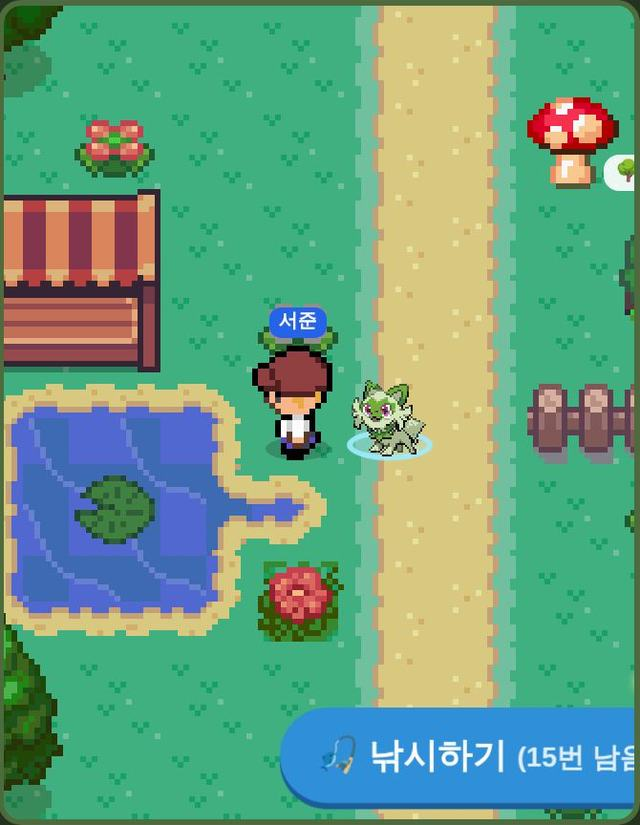
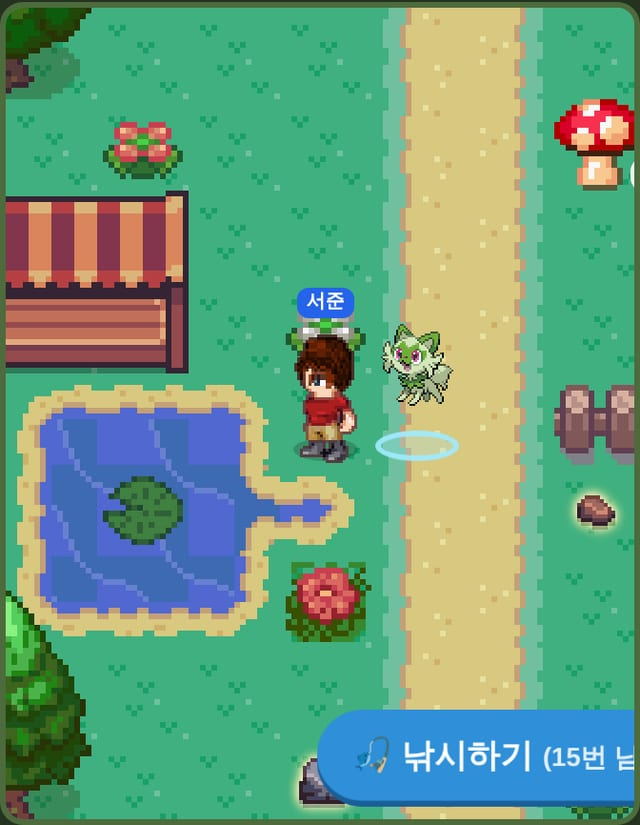
훈련 상자 결과 줄 간단히, 시험 버튼 '지난주 몰아서 적기', 설명서 사람 나오는 그림 4장 새 캐릭터로, 손님 말풍선이 서준 밑에 가려지던 것 고침
Claude-Session: https://claude.ai/code/session_013Gbm6Fa4FvQvNF7GgGTRnx

diff --git a/app/village-demo/village-demo.tsx b/app/village-demo/village-demo.tsx
@@ -15,6 +15,11 @@ const shiftDay = (date: string, days: number) => {
   return d.toISOString().slice(0, 10);
 };
 
+/** 주소에 ?rod=1 이면 낚싯대도 처음부터 (설명서 그림 찍기용, 보통은 만들어 보기) */
+function demoRod(): boolean {
+  try { return new URLSearchParams(window.location.search).get('rod') === '1'; } catch { return false; }
+}
+
 /** 시험용 마을 별 (주소 ?stars=숫자, 없으면 33: 들어가면 손님 별을 받아 레벨 2 바로 앞) */
 function demoStars(): number {
   try { const n = Number(new URLSearchParams(window.location.search).get('stars')); return Number.isFinite(n) && n > 0 ? n : 33; } catch { return 33; }
@@ -54,7 +59,7 @@ function demoState(today: string): GameState {
     mail: [{ id: 'k1', kind: 'iron', amount: 1, week: yesterday, at: now }],
     craftedBalls: [{ id: 'c1', kind: 'poke', made: yesterday }],
     // 낚시·벌레잡기: 잠자리채는 있고(15번), 낚싯대는 만들어 보기
-    tools: { net: 15 },
+    tools: demoRod() ? { rod: 15, net: 15 } : { net: 15 },
     // 마을 레벨: 별 33개 + 들어갈 때 손님 별 = 레벨 2 바로 앞 (조금만 더 만들면 오른쪽 풀밭이 열림). 주소 끝에 ?stars=1200 처럼 붙이면 그만큼으로
     stars: demoStars(),
   } as unknown as GameState['village'];

diff --git a/lib/game-engine.ts b/lib/game-engine.ts
@@ -3304,6 +3304,15 @@ export function simOffline(state: GameState, op: string, ctx: LegendCtx): string
   const off = offlineOf(state);
   const lastStart = plusDays(weekStartOf(ctx.today), -7);
   switch (op) {
+    case 'weekBatch': {
+      // 부모님이 주 1회 몰아서 적은 것처럼 (2026-11-20): 지난주 ●●■●■●▲를 적고 하루 상자도 정하기 전으로 → 다음에 열면 상자 여러 개 + 주간 기록
+      const plan: DayMark[] = ['full', 'full', 'some', 'full', 'some', 'full', 'none'];
+      weekDates(lastStart).forEach((d, i) => { off.marks[d] = plan[i]; delete off.given[d]; });
+      off.boxes = off.boxes.filter(b => !weekDates(lastStart).includes(b.date));
+      off.weeks[lastStart] = { goal: rules.weekGoal, cheer: off.weeks[lastStart]?.cheer };
+      syncOffline(state, ctx);
+      return `지난주를 몰아서 적었어요(합계 ${weekScore(off.marks, lastStart)}). 하루 상자 ${off.boxes.filter(b => weekDates(lastStart).includes(b.date)).length}개가 생겼어요.`;
+    }
     case 'weekGood':
     case 'weekShort': {
       // 지난주를 채우고 정산 전으로 되돌림 → 다음에 아이 화면을 열면 주간 기록 팝업

diff --git a/app/globals.css b/app/globals.css
@@ -1411,3 +1411,9 @@ button.day-box-tile:active { transform: scale(.95); }
 @keyframes week-box-pop { 0% { transform: translateY(-14px) scale(.2); opacity: 0; } 60% { transform: translateY(4px) scale(1.15); opacity: 1; } 100% { transform: none; } }
 .week-box-note { margin: 0; font-weight: 800; color: #b45309; }
 .study-day-box { position: absolute; right: 1px; top: 0; font-size: 11px; }
+.day-box-result-items .reward-card { flex-direction: row; justify-content: flex-start; align-items: center; gap: 8px; min-height: 0; padding: 6px 10px; text-align: left; }
+.day-box-result-items .reward-card img { width: 36px; height: 36px; flex: none; }
+.day-box-result-items .reward-card b { font-size: 15px; }
+.day-box-result-items .reward-card small { display: none; }
+.day-box-result { grid-template-columns: 64px 1fr; padding: 4px 6px; }
+.day-boxes-dialog .intro-title { font-size: 22px; }

diff --git a/components/parent/offline-parent.tsx b/components/parent/offline-parent.tsx
@@ -215,6 +215,7 @@ export function OfflineSimTools({ busy, call, reload }: { busy: boolean; call: C
       <div className="button-row">
         <button className="secondary small" disabled={busy} onClick={() => void run('weekGood')}>지난주 채우기: 조각 받는 주(●●■●■●▲ = 5)</button>
         <button className="secondary small" disabled={busy} onClick={() => void run('weekShort')}>지난주 채우기: 아쉬운 주(3½)</button>
+        <button className="secondary small" disabled={busy} onClick={() => void run('weekBatch')}>지난주 몰아서 적기(하루 상자 6개 생김)</button>
         <button className="secondary small" onClick={() => clearDevice('week')}>이 기기 주간 기록 다시 보기</button>
         <button className="secondary small" onClick={() => clearDevice('intro')}>이 기기 처음 안내 다시 보기</button>
       </div>

diff --git a/components/game/day-boxes.tsx b/components/game/day-boxes.tsx
@@ -93,7 +93,7 @@ export function DayBoxesDialog({ open, boxes, title, busy, act, onOpenOne, onLat
       <DialogContent className="reward-dialog day-boxes-dialog">
         {phase === 'list' ? <>
           <DialogTitle className="intro-title">{title ?? '🎁 훈련 선물 상자가 왔어!'}</DialogTitle>
-          <DialogDescription className="intro-text">부모님이 적어 주신 훈련 날마다 상자가 하나씩 있어. 상자를 눌러 하나씩 열거나, 한 번에 열어 봐!</DialogDescription>
+          <DialogDescription className="intro-text">훈련한 날마다 상자가 하나씩! 눌러서 하나씩 열거나, 한 번에 열어 봐.</DialogDescription>
           <div className="day-box-grid">
             {sorted.map((b, i) => <DayBoxTile key={b.id} box={b} delay={i * 0.12} disabled={busy} onClick={() => onOpenOne(b)} />)}
           </div>

diff --git a/components/game/village.tsx b/components/game/village.tsx
@@ -452,7 +452,7 @@ function VillageInner({ view, busy, act, onClose, onSeconds, onOpenBall, lpcTest
           {/* 돌아다니는 포켓몬 */}
           {walkers.map(w => (
             <button key={w.id} className={'village-mon' + (w.guest ? ' guest' : '') + (placing || decorPlacing ? ' pass' : '')}
-              style={{ left: w.x * TILE, top: w.y * TILE, width: TILE, height: TILE, zIndex: 11 + w.y }}
+              style={{ left: w.x * TILE, top: w.y * TILE, width: TILE, height: TILE, zIndex: bubble?.id === w.id ? 200 : 11 + w.y }}
               onClick={() => void onMonTap(w)}
               aria-label={species(w.species).name}>
               <span className="village-shadow" />

diff --git a/CLAUDE.md b/CLAUDE.md
@@ -88,7 +88,7 @@
   - 전설: `settleLegend` 조각 ≥ need면 남은 후보(가진 포켓몬 제외) 최대 3개 마스터볼(`pending`, 이로치 = 마스터볼 확률·스위치) → 아이 `legendPick`(고른 것만 보여 줌: 2026-10-15 부모님 요청으로 고르지 않은 볼 내용은 응답에도 안 보냄, `others` = 수만) → 단계 후보를 다 만나면 다음 단계("다음 단계 전설은 더 귀해서 조각이 더 필요해"). 후보가 없는 단계는 조각만 모으며 기다림(아이 "부모님이 다음 전설을 준비하고 있어", 보호자 경고). **조각은 주간 집 공부·이벤트로만, 배틀에서는 절대 없음.**
   - 나들이 보고서: 2026-10-15부터 새로 여는 보고서는 `Outing.pieces`(보호자가 열 때 1~5, 기본 `eventPieces` 2) → 승인 후 아이 `outingPick`이 조각을 넣음(`OutingPieceReward`). `pieces`가 없는 예전 보고서는 마스터볼 그대로.
   - 아이(`components/game/offline.tsx`·`legend.tsx`): 첫 화면 탭 위 `StudyStrip`(📅 집 공부 달력 · 💎 전설 지도 n/3), `StudyCalendarDialog`(보기만, `MonthCalendar` 월~일+주 칸, 이번 달 ● 수·조각), `LegendMap`(2026-10-15 부모님 요청: **지금 단계만** 크게 — 보석·파트너·조각 수·후보는 "?" 동그라미로 수만(같은 날 부모님 요청: 실루엣도 보여 주지 않음, 아이 화면 응답에도 후보 번호를 보내지 않음 `left` = 남은 수), 얻은 것만 그림, 완성한 단계는 위에 보석 그림만, 다음 단계는 안 보여 줌; 처음 안내 마지막 장도 1단계 보석과 "?" 동그라미만), `LegendPickDialog`(보석 빛남 → 마스터볼 → 고르기(나머지는 숨김) → 단계 오르면 새 빈 보석). 팝업 순서: 처음 안내 5장 `OfflineIntro`(기기마다 한 번 `pq-offline-intro-v1`) → 지난주 기록 `WeekRecordDialog`(그 주 안 첫 접속, 기기마다 한 번 `pq-week-seen-<월요일>`; 월~일이 하나씩 튀어나오며 합계·막대 → 조각이 날아와 보석에 / 모자라면 `shortMessage` → 응원 → "이번 주도 해 보자") → 마스터볼 고르기 → 하루 선물 상자 묻기(나중에 = 달력에서 열기).
-  - **하루 선물 상자 보여 주기(2026-11-20 부모님 요청, 지급 규칙·기록은 그대로):** 부모님이 주 1회 몰아서 적으면 앞선 날마다 상자가 한꺼번에 생김 → `components/game/day-boxes.tsx` `DayBoxesDialog`가 상자마다 요일·표시("월 ●", `dayBoxLabel`)와 날짜를 붙여 한 창에(날짜 순), 상자를 누르면 그 상자만 3개 중 고르기(`RewardPicker` 제목 위 `heading` "11월 17일 월요일 ● 훈련"), **한 번에 열기**는 상자마다 가려진 카드 하나를 고르는 `offlineBox` 동작을 차례로 보내고(아이가 아무 카드나 누르는 것과 같음) 결과를 요일별로, 볼이 나오면 "볼 열어 보기". 앱을 열 때 묻는 창("나중에" = 훈련 달력에서)·훈련 달력 "🎁 훈련 선물 상자 보기"(안 연 상자가 있는 날 칸에 🎁, `MonthCalendar boxDates`)가 같은 창. 월요일 `WeekRecordDialog`: 7칸이 다 나온 뒤 그 주 ●·■ 칸에서 안 연 상자가 하나씩 튀어나오고(`week-day-box`), 결과에 "🎁 훈련한 날마다 상자가 나왔어! (n개)", 버튼 "🎁 상자 열러 가기" → 상자 창.
+  - **하루 선물 상자 보여 주기(2026-11-20 부모님 요청, 지급 규칙·기록은 그대로):** 부모님이 주 1회 몰아서 적으면 앞선 날마다 상자가 한꺼번에 생김 → `components/game/day-boxes.tsx` `DayBoxesDialog`가 상자마다 요일·표시("월 ●", `dayBoxLabel`)와 날짜를 붙여 한 창에(날짜 순), 상자를 누르면 그 상자만 3개 중 고르기(`RewardPicker` 제목 위 `heading` "11월 17일 월요일 ● 훈련"), **한 번에 열기**는 상자마다 가려진 카드 하나를 고르는 `offlineBox` 동작을 차례로 보내고(아이가 아무 카드나 누르는 것과 같음) 결과를 요일별로, 볼이 나오면 "볼 열어 보기". 앱을 열 때 묻는 창("나중에" = 훈련 달력에서)·훈련 달력 "🎁 훈련 선물 상자 보기"(안 연 상자가 있는 날 칸에 🎁, `MonthCalendar boxDates`)가 같은 창. 시뮬레이션(개발 탭 훈련 시험) "지난주 몰아서 적기(하루 상자 6개 생김)" `simOffline weekBatch`(●●■●■●▲, 하루 상자를 정하기 전으로 → 상자 6개 + 주간 기록; 다른 "지난주 채우기"는 하루 상자를 안 만듦). 월요일 `WeekRecordDialog`: 7칸이 다 나온 뒤 그 주 ●·■ 칸에서 안 연 상자가 하나씩 튀어나오고(`week-day-box`), 결과에 "🎁 훈련한 날마다 상자가 나왔어! (n개)", 버튼 "🎁 상자 열러 가기" → 상자 창.
   - 활동 기록 종류 `offline`(부모님 기록·응원)·`legend`(조각·단계·마스터볼), 상자는 `reward`(집 공부 하루 선물 상자). 내보내기 `보상.집공부와전설조각`.
   - 시뮬레이션(개발 탭 "📅 집 공부 · 💎 전설 시험" `simOffline`): 지난주 채우기(조각 받는 주 5 / 아쉬운 주 3½), 이 기기 주간 기록·처음 안내 다시 보기, 조각 +1·보석 1개 전·보석 완성, 이 단계 1마리만 남기기, 4단계로, 시험 기록 지우기. 하루 상자는 달력에 적고 "다음 날로".
   - 포켓로그 원본 스타터 비용: 프리져 5, 썬더·파이어·라이코·앤테이·스이쿤 6(팀 포인트 15).
@@ -113,7 +113,7 @@
   - **제작대는 볼만·글자·그림 크기(2026-11-14 부모님):** 마을 아래 버튼 **[🔮 제작대] [🔨 만들기] [📖 방명록] [🎒 가방]**. 🔮 제작대(`WorkbenchSheet`, 지도 위 제작대 건물을 눌러도 같은 창)는 **볼만** 만듦(묘목 줄 없음), 🌳 열매나무 묘목은 🔨 만들기 → 🌱 서식지 칸 `SaplingRecipe`(레시피·개수 그대로 열매 5(섞어서 자동)+돌멩이 2, 나무 최대면 이유, 만들면 "🎒 가방에서 심어 보자"). 마을 화면·마을 창·마을이 열린 동안의 팝업은 `word-break: keep-all`. 마을 포켓몬 그림은 `AnimMon` 1.5배 → 1배(2/3), 돌아다니는 포켓몬은 서준이·파트너·서로가 있는 칸에 가지 않고 겹치면 바로 비킴(0.9초마다). 앱 화면의 "수련"은 이미 모두 "훈련"(확인함).
   - **제작대 글자·마을 반말(2026-11-14 부모님):** 레시피 열매 합계는 🍎 대신 글자 "열매 183/10"(`.cost-word`, 🍎가 사과로 보여서), 묘목이 나무 최대로 막히면 버튼 옆에 크게 "🌳 나무 자리가 꽉 찼어 (나무 2 + 가방 1)"(`.recipe-why`), 제작대 열매 이름·레시피 설명 글씨 한두 단계 크게(`.workbench-berries`·`.workbench-recipes`). **마을 안 아이용 문구는 모두 반말**("나와요" → "나와"): 마을 화면·창, `lib/village*.ts` 안내·막힘 말, 엔진 마을 동작(`villageEnter`~`openCraftedBall`)·`villageAccess`의 막힘 말(보호자용 시험 문구는 그대로 존댓말). 제작 볼 문구는 "아직 도감에 없는 포켓몬이 나와! 마을에서 만난 포켓몬이 먼저 나와".
   - **📘 마을 설명서(2026-11-14, `docs/manual-prompt.md` 기준):** 아이용 `public/guide/village.html`(정적 HTML, 첫 장 = 그림 버튼 목차 7묶음 [🚶 걷기·줍기 | 🔨 만들기 | 🔮 볼 만들기 | 📖 방명록 | 🎣 낚시·벌레 | 🏠 마을점수·열쇠 | 🍎 먹이기] 묶음마다 3~4장, 묶음 끝에 "📘 목차로"·"다음 묶음", 목차의 "처음부터 끝까지 보기", 주소 `#걷기` `#만들기` `#볼만들기` `#방명록` `#낚시` `#마을점수` `#먹이기`로 바로 그 묶음; 마을 창 아래 "📘 설명서 보기"(`village.tsx`: 제작대 → 볼만들기, 방명록 → 방명록, 만들기·가방·심기 → 만들기, 만들기 도구 칸 → 낚시), 옆으로 밀기, 큰 글씨 반말, `word-break: keep-all`, 그림 `public/guide/img/*.jpg` = `/village-demo`와 첫 화면을 390×844로 찍어 540px로 줄인 것). 마을 위쪽 ❓ 옆 **📘 설명서** 버튼(`VillageLevelBar` `onGuide`) → `village.tsx`가 `createPortal`로 전체 화면 iframe(`.village-guide-frame`), 설명서 "닫기"가 `postMessage {type:'pq-guide-close'}`(따로 열었으면 `/`로). 부모용 표 `docs/village-guide-parent.md`(숫자는 처음 값, 바꾸는 곳). 규칙·숫자가 바뀌면 둘 다 고치고 그림을 다시 찍음. 기록은 건드리지 않음.
-  - **사람 그림 LPC (2026-11-20 부모님 결정: 진짜 마을 서준도 LPC):** `lib/village-lpc.ts` `LPC_REAL`(시험에서 고른 모습: 빨간 티셔츠·모자 없음·아이 얼굴·부드러운 테두리·1.5배) — `VillageScreen`에 `lpcTest`가 없으면 이것(가족은 아직 시험용 마을에서만). 시험용 마을 `?real=1` = 진짜 마을과 같은 모습(시험 버튼·띠 없음, 설명서 그림 찍기용). 출처: 마을 아래 줄에 "사람 그림: LPC 기여자들 (CC BY-SA 3.0 / OGA-BY 3.0)" → `/guide/credits.html`(`scripts/make-credits.mjs`가 `lpc/CREDITS.csv`·`village/LICENSE.txt`로 만듦: 라이선스 요약·서준 그림 표시·파일별 만든 사람·원본 주소, 설명서 첫 장 아래·보호자 업데이트 탭에서 열기), `village/LICENSE.txt` 5) lpc. 설명서 그림 중 사람이 나오는 5장(map·rock·guest·fish-spot·key)을 새 캐릭터로 다시 찍음(390×844).
+  - **사람 그림 LPC (2026-11-20 부모님 결정: 진짜 마을 서준도 LPC):** `lib/village-lpc.ts` `LPC_REAL`(시험에서 고른 모습: 빨간 티셔츠·모자 없음·아이 얼굴·부드러운 테두리·1.5배) — `VillageScreen`에 `lpcTest`가 없으면 이것(가족은 아직 시험용 마을에서만). 시험용 마을 `?real=1` = 진짜 마을과 같은 모습(시험 버튼·띠 없음, 설명서 그림 찍기용), `?rod=1` = 낚싯대도 처음부터(보통은 만들어 보기). 손님이 말하면 그 손님을 맨 위로(말풍선이 서준 그림 밑에 가려지던 것 고침). 출처: 마을 아래 줄에 "사람 그림: LPC 기여자들 (CC BY-SA 3.0 / OGA-BY 3.0)" → `/guide/credits.html`(`scripts/make-credits.mjs`가 `lpc/CREDITS.csv`·`village/LICENSE.txt`로 만듦: 라이선스 요약·서준 그림 표시·파일별 만든 사람·원본 주소, 설명서 첫 장 아래·보호자 업데이트 탭에서 열기), `village/LICENSE.txt` 5) lpc. 설명서 그림 중 사람이 나오는 5장(map·rock·guest·fish-spot·key)을 새 캐릭터로 다시 찍음(390×844).
   - **[시험] 사람 그림 LPC 비교(2026-11-20 부모님 요청, 옷 입히기·가족 캐릭터를 위해 바꿀지 판단용, `/village-demo`에서만):** 위쪽 [지금 캐릭터 | LPC] 버튼(주소 `?lpc=1`), LPC면 서준 옷 [파란 티셔츠 | 빨간 폴로] + 🧢 빨간 반다나. 그림 `public/assets/village/lpc/*.png`(Universal LPC Spritesheet Character Generator의 걷기 그림 walk.png, 64×64 칸 9장×4줄, 색은 원본 팔레트로 바꿈), 출처 `public/assets/village/lpc/CREDITS.md`·`CREDITS.csv`(원본 CREDITS.csv 그대로, OGA-BY 3.0 / CC-BY-SA 3.0 / CC-BY / GPL 3.0 / CC0). 정의 `lib/village-lpc.ts`(`LPC_SCALE` 2 = 정수 배, 층 순서 몸·신발·바지·윗옷·머리·머리카락·모자, `seojunLayers`, `LPC_FAMILY` 하준(어린이 몸)·엄마·아빠(둘 다 청소년 몸 + 긴팔: 어른 몸은 가슴·근육이 부각돼서 부모님이 싫어함); 옷 색(부모님): 서준 빨간 티셔츠(갈아입기 파란 폴로)·엄마 연핑크 긴팔(직접 만든 색, 처음엔 너무 하얘서 더 진하게)·하준 노랑 셔츠(하늘색 원본을 노랑으로)·아빠 초록 긴팔, 그리기 `components/game/village-lpc.tsx`(`LpcSprite` 층마다 같은 칸 위치, `useLpcWalk` 한 걸음에 4장, `LpcWalker`), `village.tsx` `lpcTest` 속성(없으면 예전 그대로; 가족은 처음 자리 2칸 안에서 1.6초마다 가끔 한 칸, 사람·포켓몬과 안 겹치게, 포켓몬도 가족 칸을 피함). 서준은 LPC "어린이" 몸에 옷이 셔츠·바지 한 가지씩뿐이고 모자가 없어서 시험은 "청소년" 몸. 진짜 마을·아이 기록은 그대로. **같은 날 고침(부모님: "인간이 너무 크다", "얼굴이 못생겼다, 부드러운 건?")**: 크기 [1배 | 1.5배(기본) | 2배] `LPC_SCALES`, 얼굴 [처음 | 웃는 얼굴(`face_happy` = LPC 표정 happy2) | 아이 얼굴(기본: LPC 어린이 머리·머리카락을 4px 올려 청소년 몸에 `*_on_teen`)], [부드러운 테두리](기본 켬: 그림마다 `_soft` = 투명과 맞닿은 어두운 바깥 테두리만 진한 갈색, `softLayers`). 이름표 높이는 배율로 계산. 서준 비율(부모님: "머리통만 조금 크게, 몸통은 어른보다 조금 작게"): 서준 그림은 모두 `_sj`(몸·옷은 64칸 기준 41·47·53번 줄을 빼서 3px 작게, 머리·머리카락·표정·모자는 엄마·아빠 머리(22×21)와 같아 보이게 가운데 세로 줄 겹침 +2·이마 2줄·눈 아래·턱 줄 겹침 +4 = 21×21(처음엔 가로만 늘려 "머리 찌부"라 하셔서 고침); 점을 빼고 겹치기만 해서 흐리지 않음).
   - **시험용 마을 창 `/village-demo`**(2026-11-13 부모님 요청: "시험용 마을 들어간 상태의 창"): `app/village-demo/village-demo.tsx`가 서버에 아무것도 보내지 않고 화면 안에서 진짜 규칙(`applyAction`·`syncVillage`·`childView`)을 돌림. 오늘 미션 끝낸 상태 + 나오하 파트너·뜨아거·피카츄 친구 + 재료 6종 12씩·서식지 3개(손님, 초록 풀숲은 큰 덤불 숲)·꾸미기(울타리·꽃·벤치)·땅 바꾸기(돌길·연못 칸)·가방에 몇 개로 시작, 새로고침하면 처음으로. 아이의 진짜 기록·미리보기 기록 어디에도 저장 안 됨, 화면 아래 보라색 "시험용 마을" 띠.
   - 보호자: 학습 현황 `VillageReport`(열림·마을 시간·재료·서식지·오늘 손님), 활동 그래프·표에 "마을" 초록 막대, 내보내기 `하루활동.마을분`·`포켓몬마을`. 시뮬레이션(개발 탭 `VillageSimTools`): 문제은행 다 푼 상태로(`simVillage bankDone`), 재료 +10(`mats`), 손님은 "다음 날로". 테스트 `lib/village.test.ts`.
